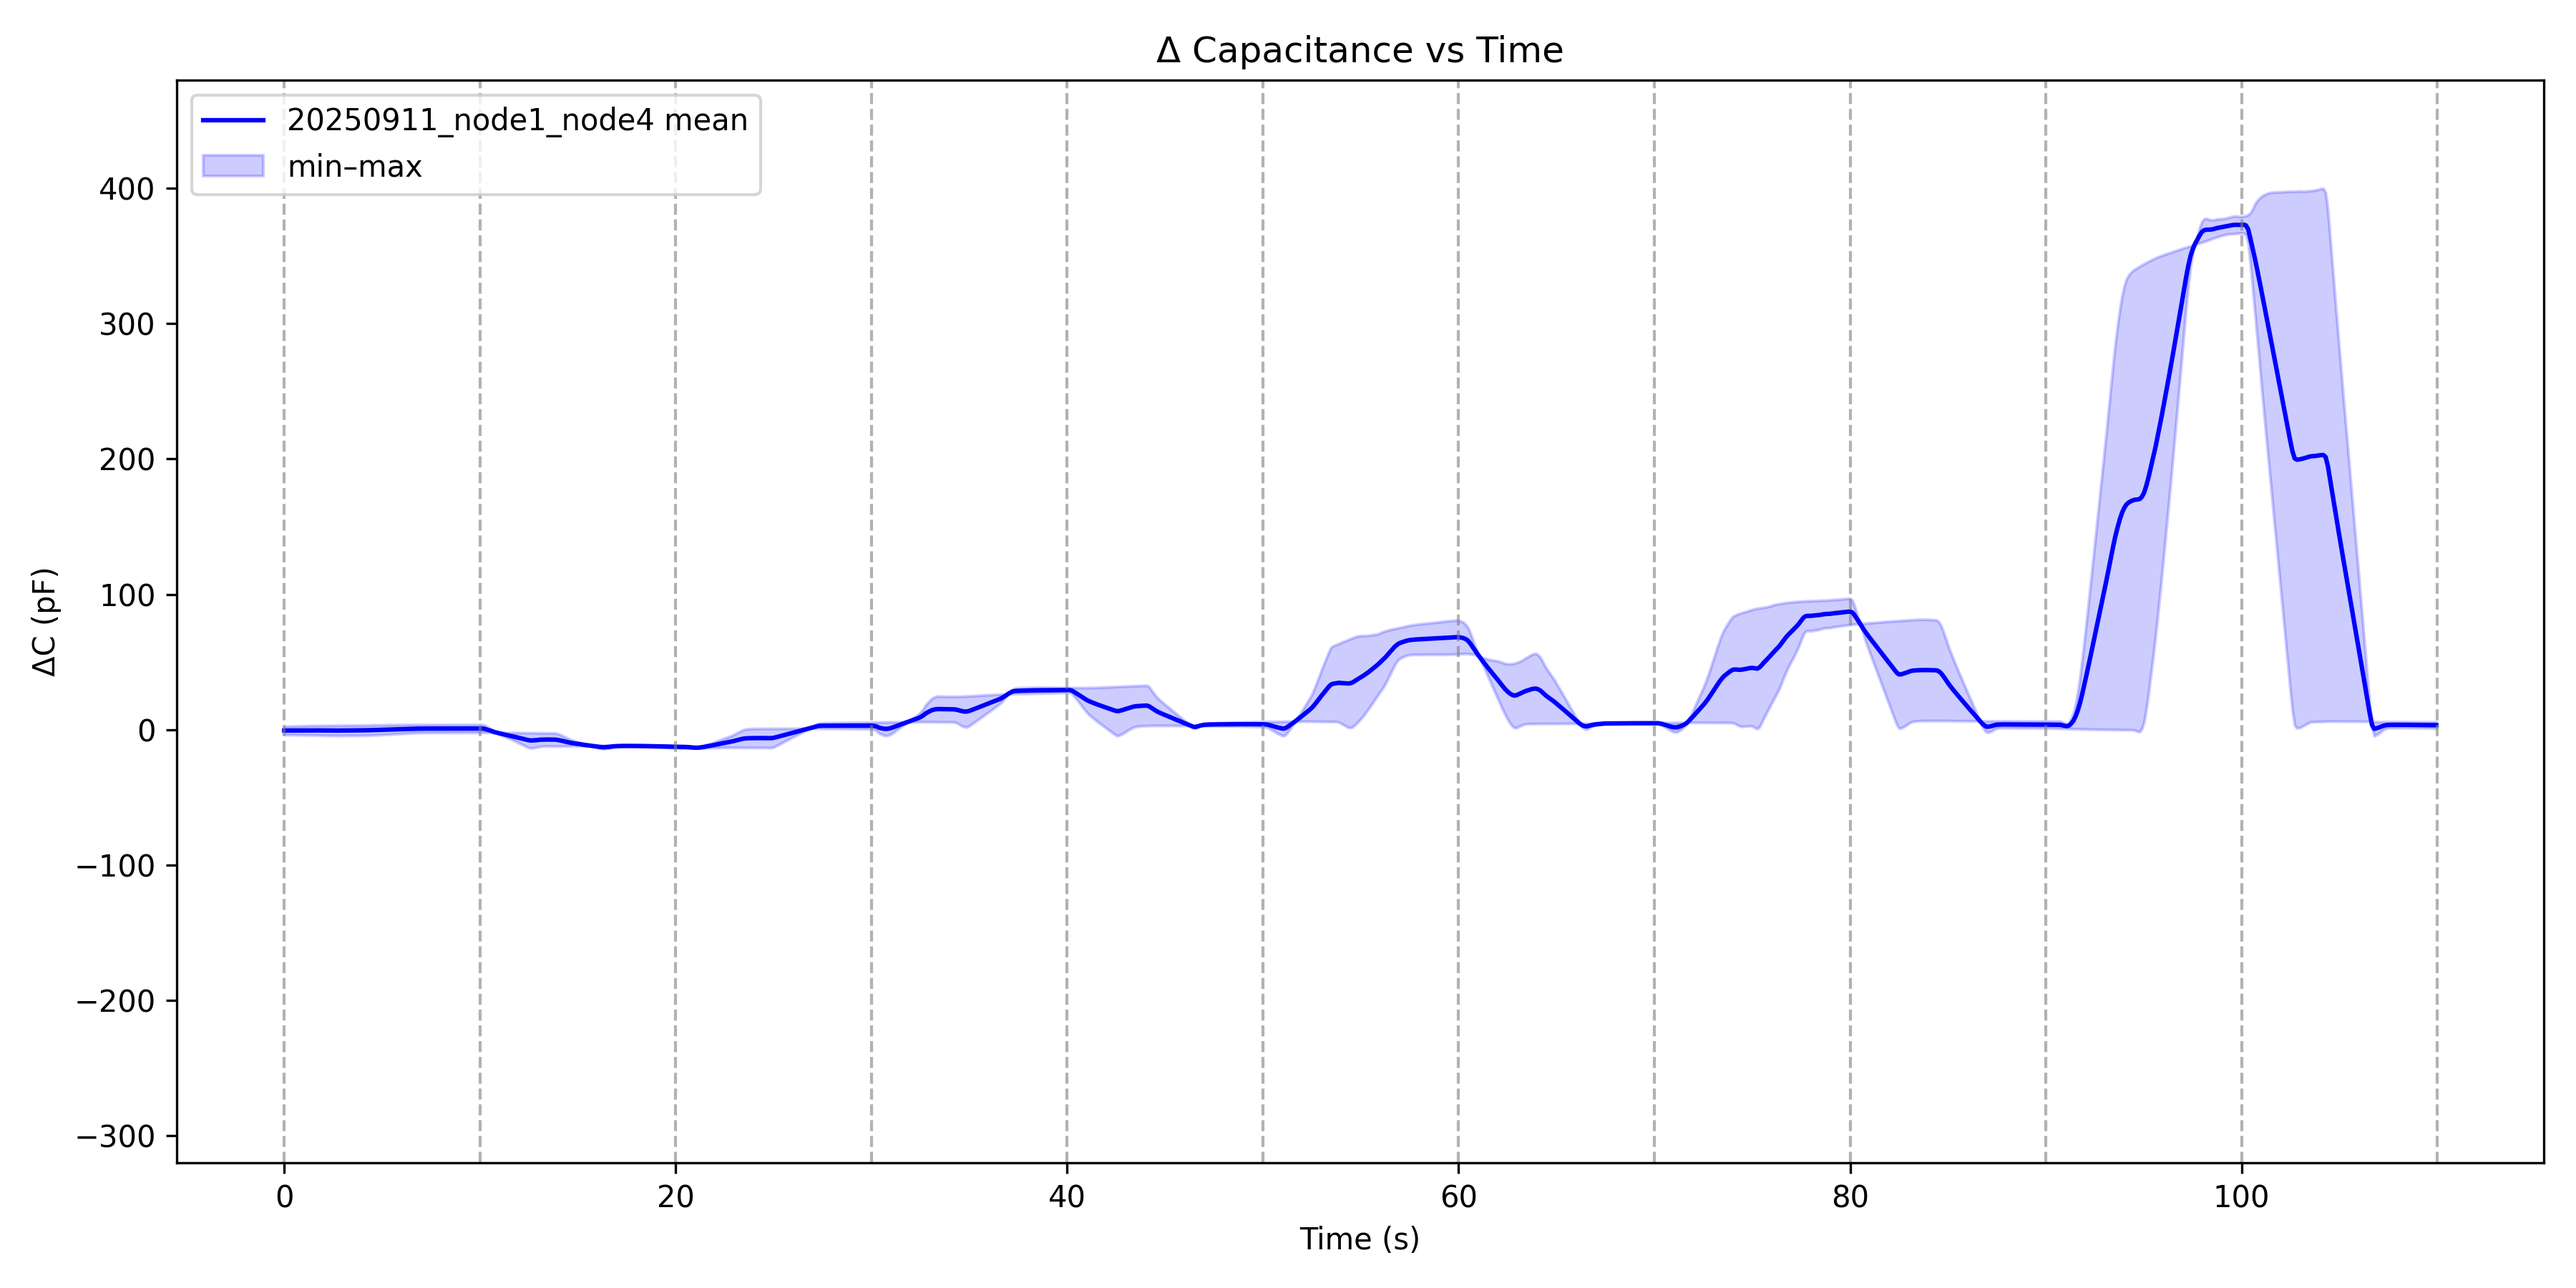
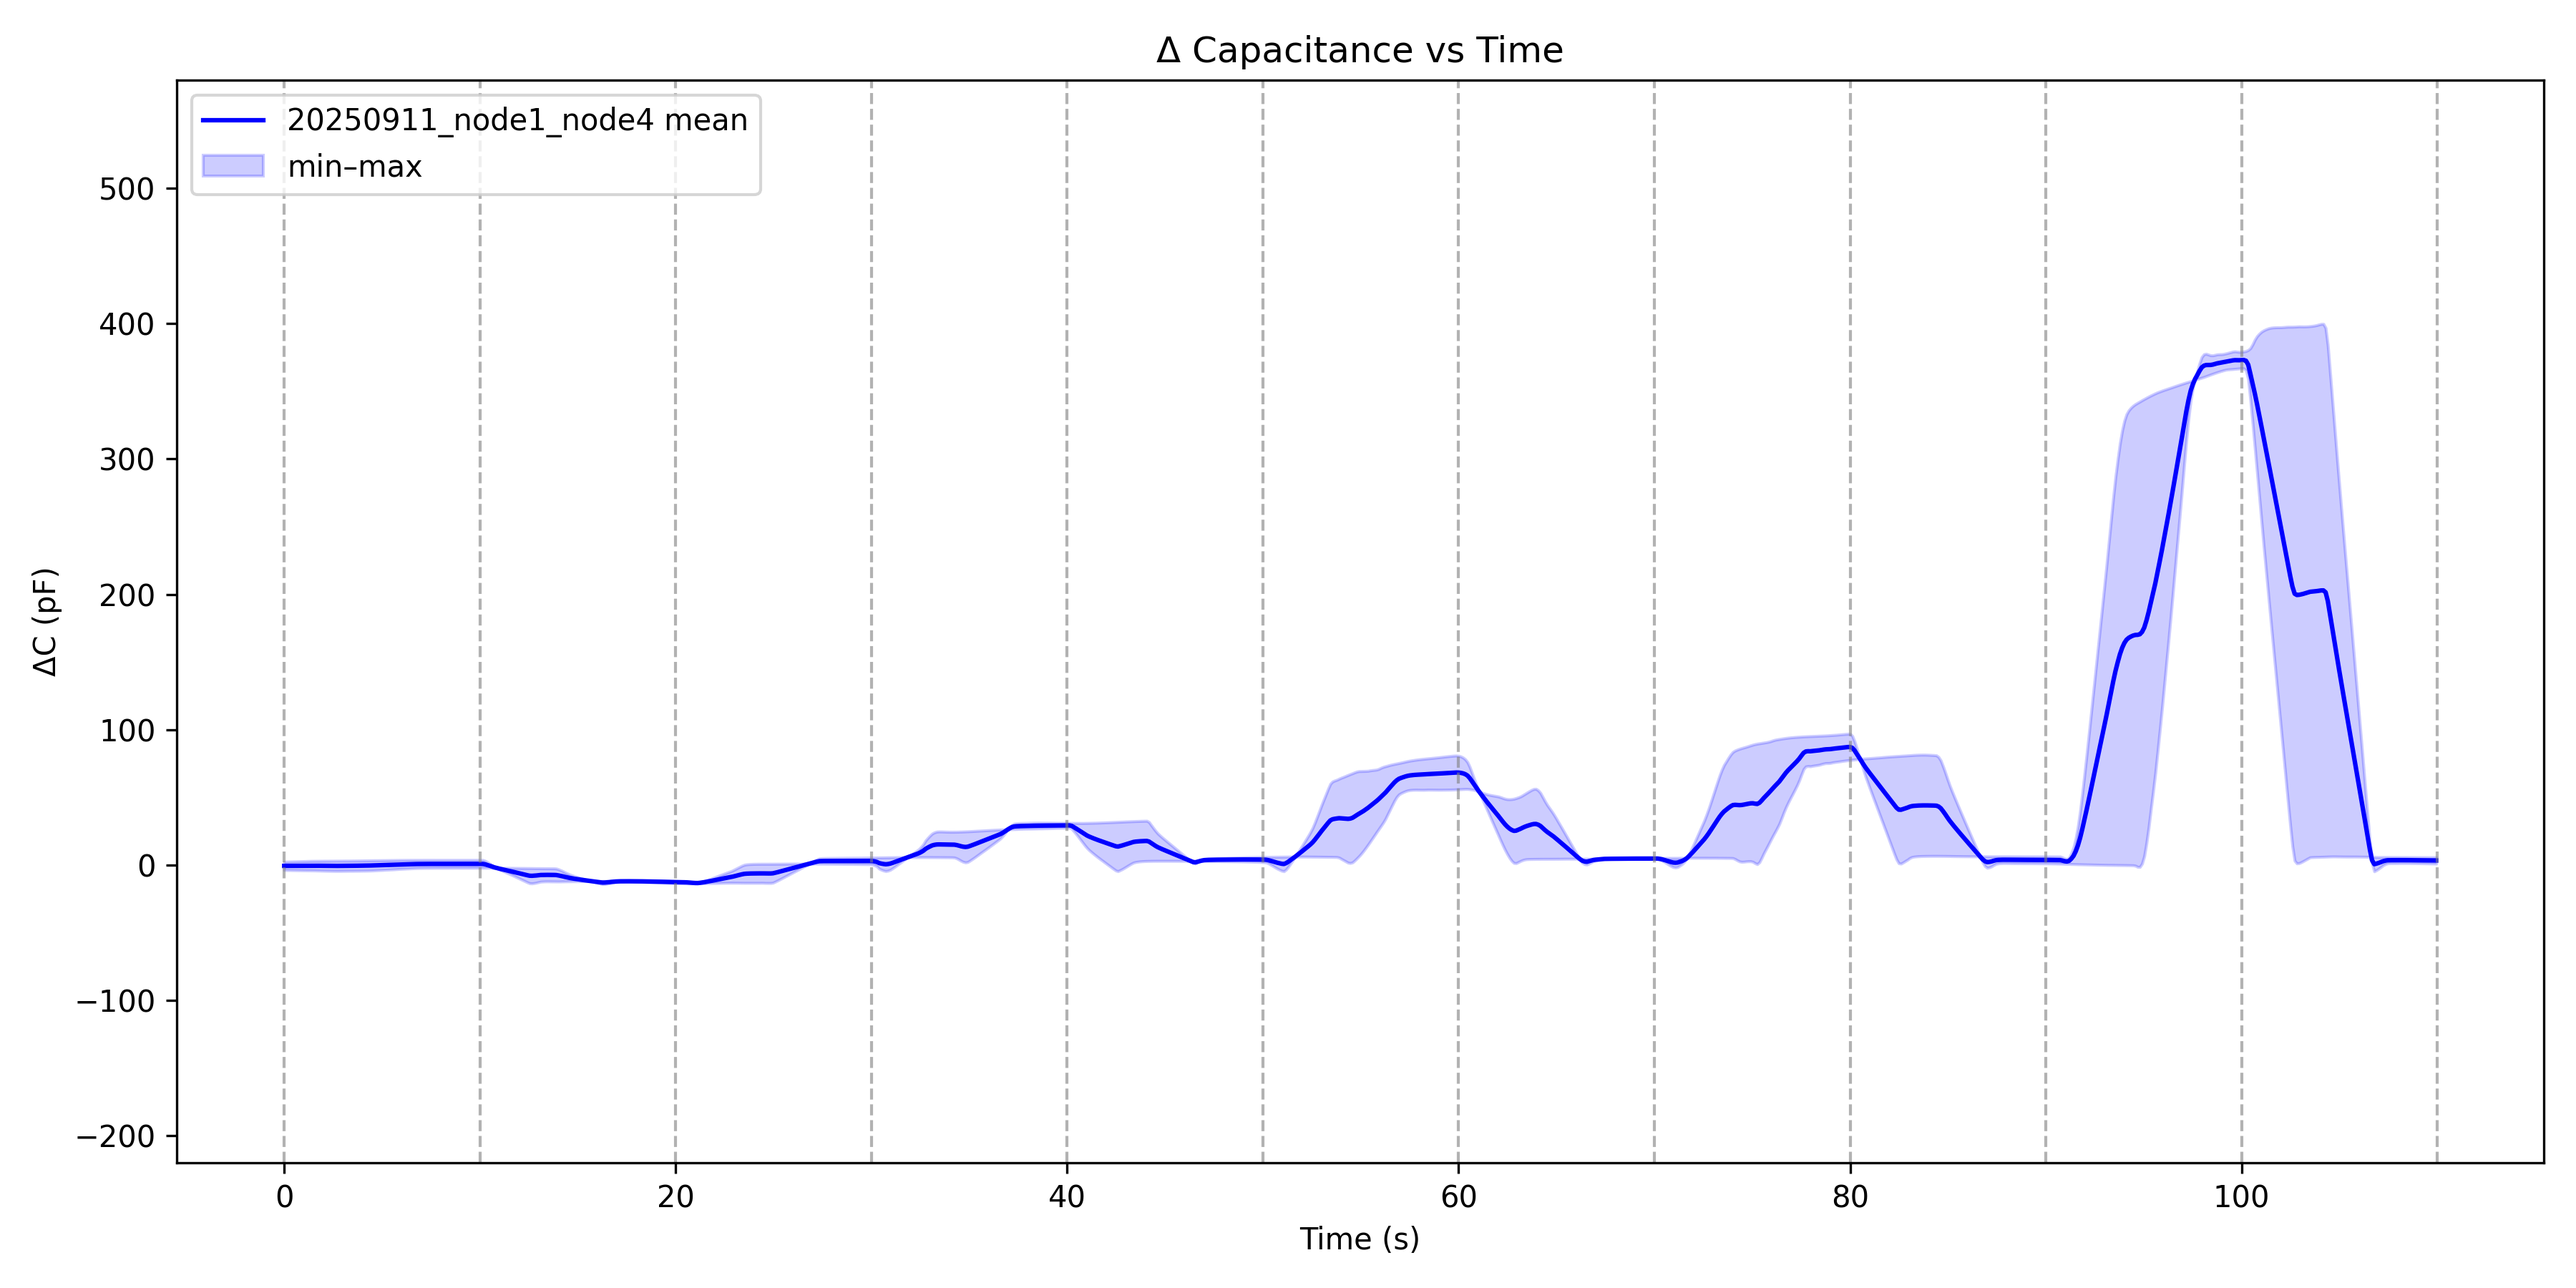
09/15

diff --git a/graphing/Post_Processing.py b/graphing/Post_Processing.py
@@ -142,7 +142,7 @@ for cond, files in conditions.items():
     # --- Y-lim span = 800 (more space below) ---
     ymin, ymax = mean_trace.min(), mean_trace.max()
     center = (ymin + ymax) / 2
-    ax.set_ylim(center - 500, center + 300)
+    ax.set_ylim(center - 400, center + 400)
 
     # --- Gray vertical lines every 10s ---
     for x in range(0, 111, 10):
